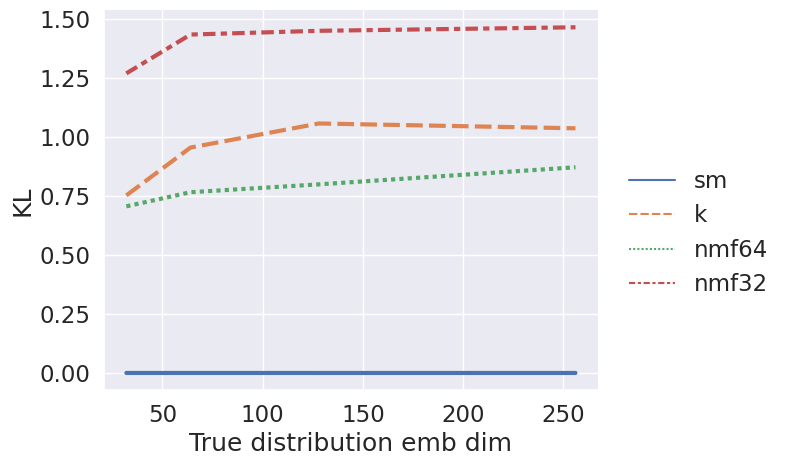
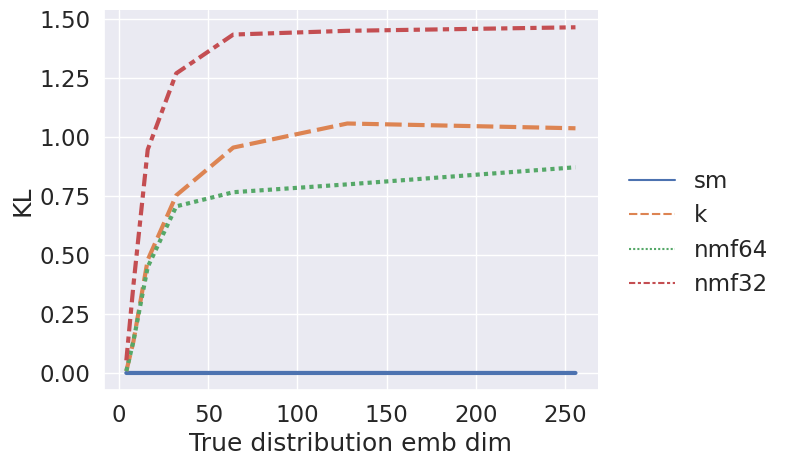
.

diff --git a/cat_tests/test_hyps.py b/cat_tests/test_hyps.py
@@ -178,10 +178,13 @@ def print_stats(model):
     minemb = min(minsemb,minoemb)
     maxemb = max(maxsemb,maxoemb)
 
+    _,ps,_ = model.proj.svd()
+    projrank = (ps > 1e-5).sum().item()
+
     if not model.diff_temps:
-        print(f"num sv > 1: {num_sv} || H: {H(lp).mean().item():.2f} || min/max logit: {logits.min().item():.2f}/{logits.max().item():.2f} || proj: {minproj}/{maxproj} || emb: {minemb}/{maxemb} || temp {model.temp.item():.2f}")
+        print(f"num sv: {num_sv} || H: {H(lp).mean().item():.2f} || min/max logit: {logits.min().item():.2f}/{logits.max().item():.2f} || proj: {minproj}/{maxproj} || projrank: {projrank} || emb: {minemb}/{maxemb} || temp {model.temp.item():.2f}")
     else:
-        print(f"num sv > 1: {num_sv} || H: {H(lp).mean().item():.2f} || min/max logit: {logits.min().item():.2f}/{logits.max().item():.2f} || proj: {minproj}/{maxproj} || emb: {minemb}/{maxemb} || st {model.start_temp.min().item():.2f}/{model.start_temp.max().item():.2f} || ct {model.class_temp.min().item():.2f}/{model.class_temp.max().item():.2f}")
+        print(f"num sv: {num_sv} || H: {H(lp).mean().item():.2f} || min/max logit: {logits.min().item():.2f}/{logits.max().item():.2f} || proj: {minproj}/{maxproj} || projrank: {projrank} || emb: {minemb}/{maxemb} || st {model.start_temp.min().item():.2f}/{model.start_temp.max().item():.2f} || ct {model.class_temp.min().item():.2f}/{model.class_temp.max().item():.2f}")
     return s
 
 def plot(losses, svs, prefix, name, num_starts, num_classes, num_features=0, learn_temp=False, diff_temps=False, nmf=False):
@@ -530,7 +533,7 @@ g.tight_layout()
 g.savefig("cat_tests/kl_plots/temp.png")
 
 print("Higher rank is harder to fit")
-emb_dim_grid = [32, 64, 128, 256]
+emb_dim_grid = [4, 8, 16, 32, 64, 128, 256]
 # type x embdimb
 results = np.zeros((4,len(emb_dim_grid)))
 for i, emb_dim in enumerate(emb_dim_grid):
